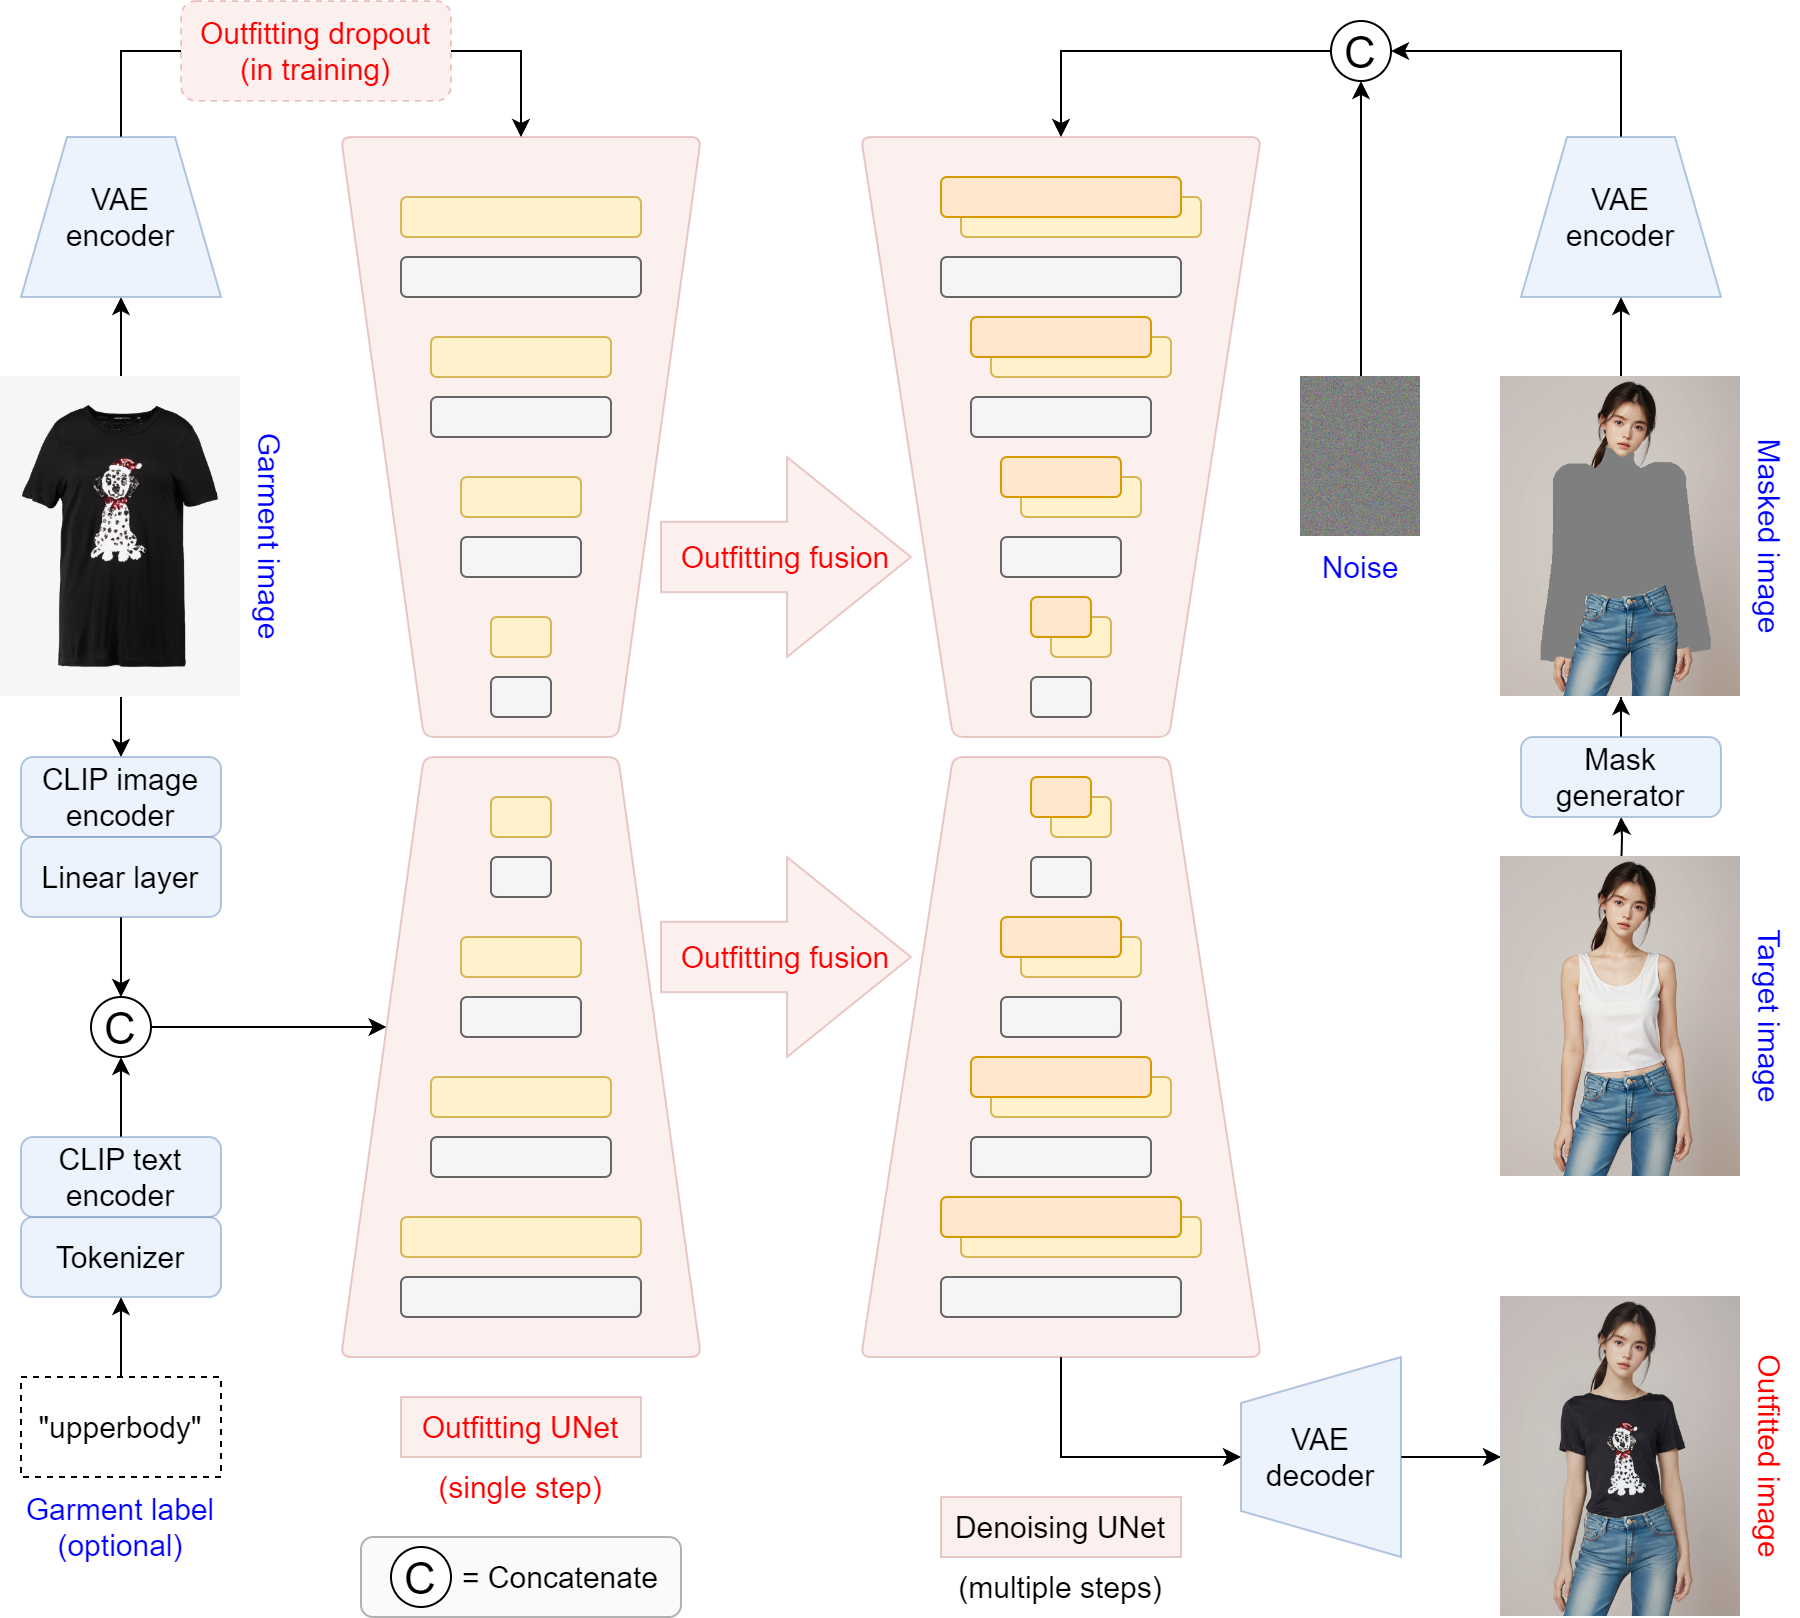
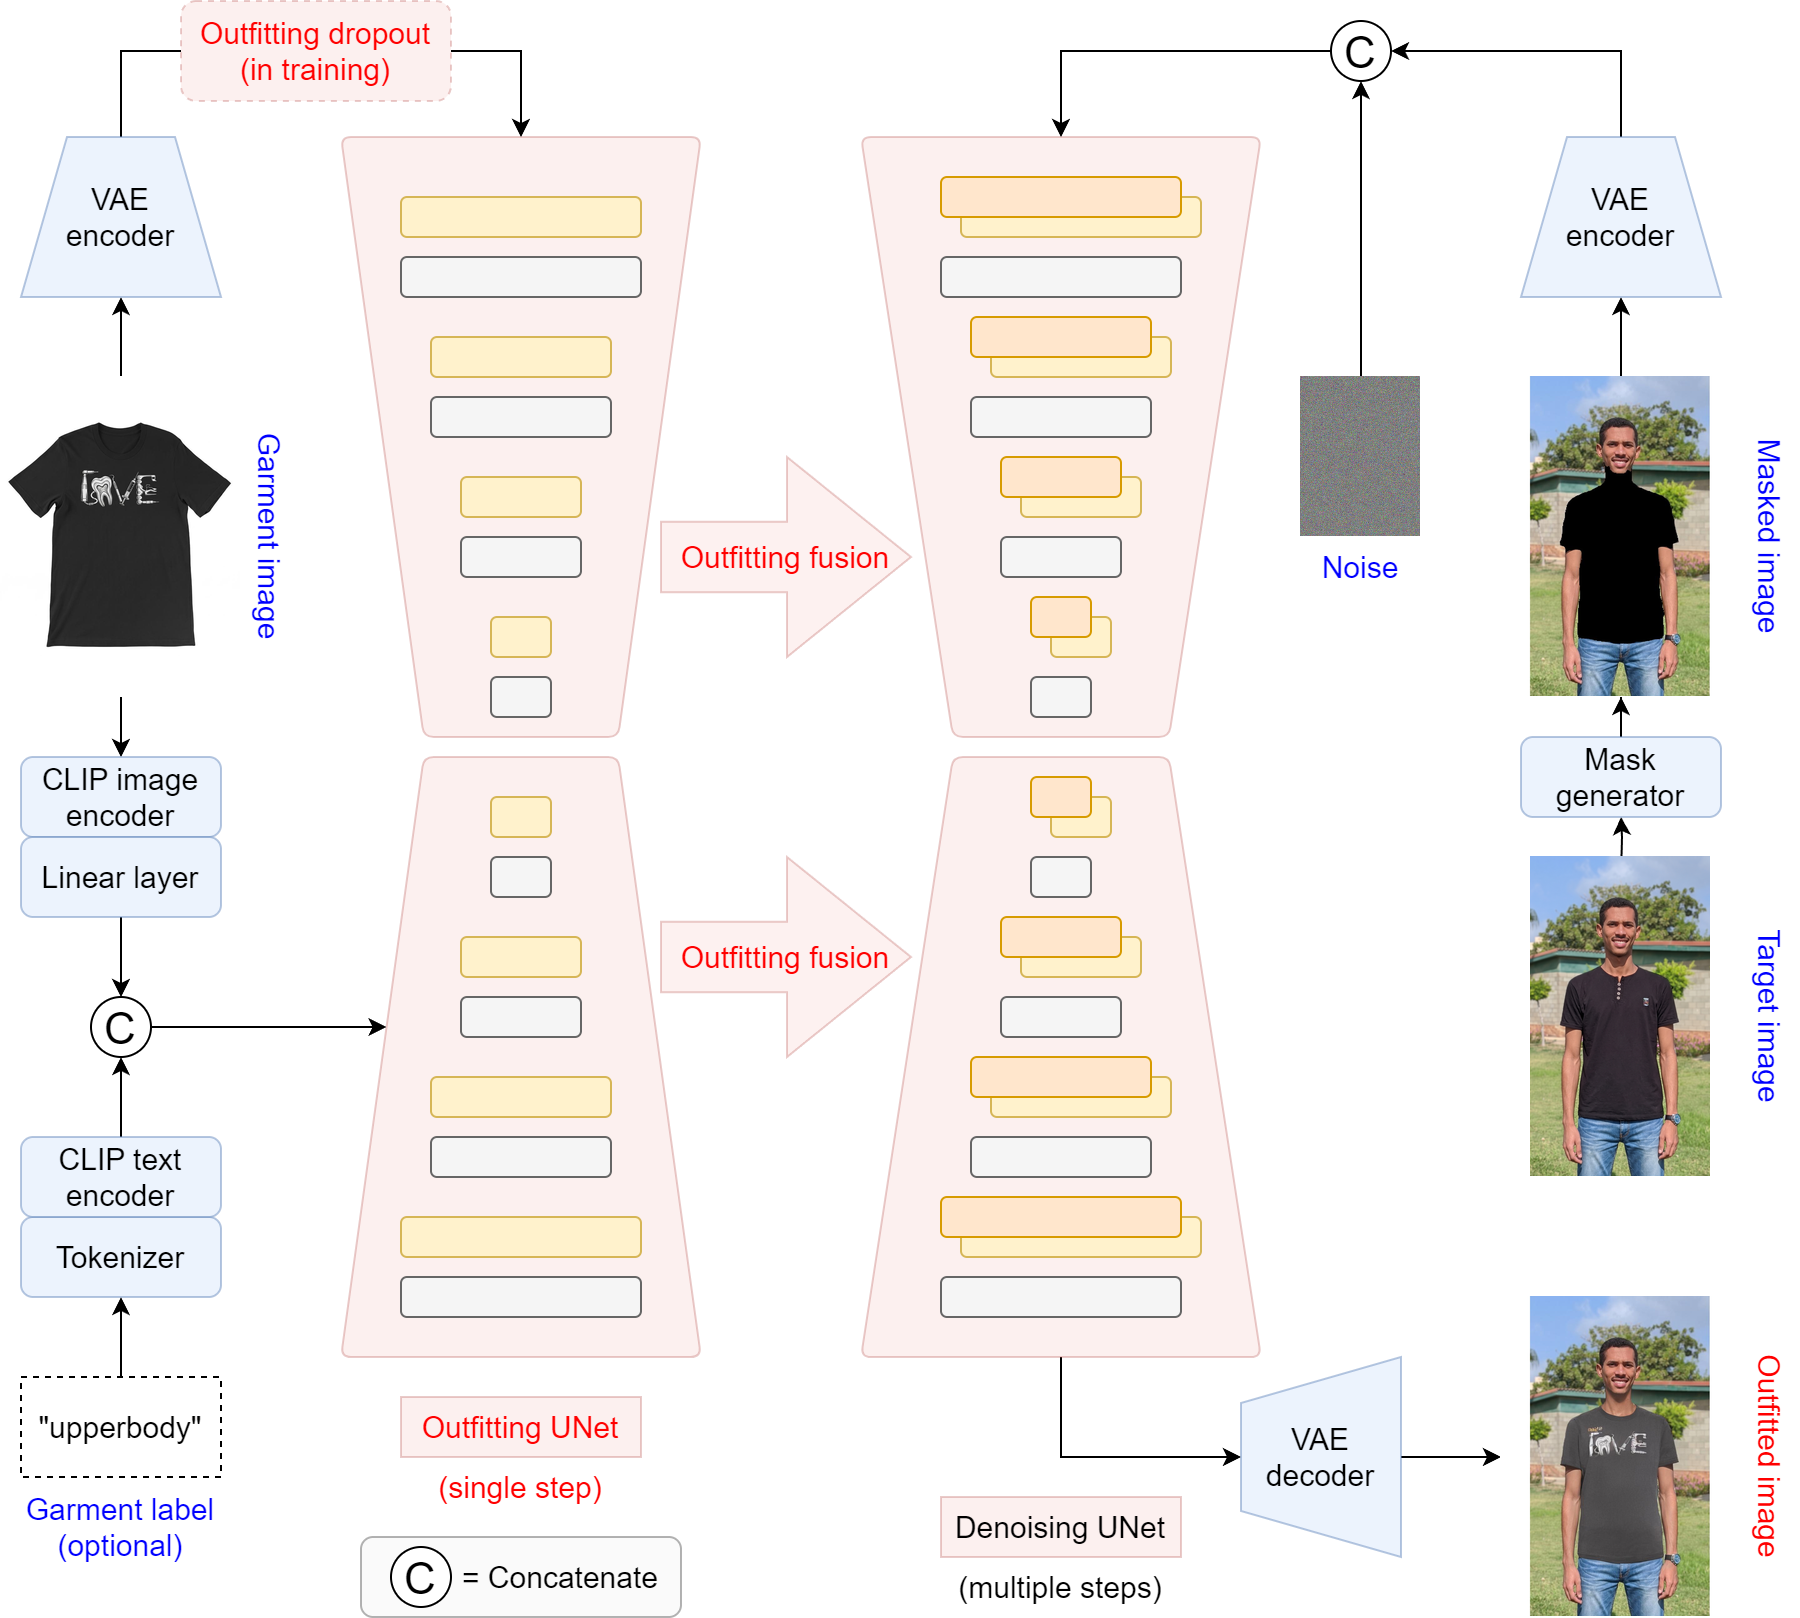
edit the readme

diff --git a/generate_workflow.py b/generate_workflow.py
@@ -1,0 +1,53 @@
+from PIL import Image
+import cv2
+import numpy as np
+import os
+
+# Paths
+base_dir = r'c:\Users\pc\PycharmProjects\WearCast_AI'
+workflow_path = os.path.join(base_dir, 'images', 'workflow.png')
+debug_folder = os.path.join(base_dir, 'debug_e5d7ed10-c6c5-4dd7-8f64-218a55ed642e')
+
+comp_path = os.path.join(debug_folder, 'debug_phase4_comparison.jpg')
+masked_path = os.path.join(debug_folder, 'debug_phase3_masked_person.jpg')
+output_path = os.path.join(debug_folder, 'debug_final_output.jpg')
+
+# Load original workflow image
+workflow_img = Image.open(workflow_path).convert('RGB')
+
+# Load and extract new images
+comp_img = Image.open(comp_path)
+W, H = comp_img.size
+w = W // 3
+
+garment = comp_img.crop((0, 0, w, H))
+target = Image.open(os.path.join(base_dir, 'Abdo.png'))
+
+masked = Image.open(masked_path)
+output = Image.open(output_path)
+
+# Resize all to 240x320
+from PIL import ImageOps
+new_size = (240, 320)
+garment = garment.resize(new_size, Image.Resampling.LANCZOS)
+masked = masked.resize(new_size, Image.Resampling.LANCZOS)
+output = output.resize(new_size, Image.Resampling.LANCZOS)
+
+# Preserve aspect ratio for target image so it's not distorted
+target_fitted = ImageOps.contain(target, new_size, Image.Resampling.LANCZOS)
+target_block = Image.new('RGB', new_size, (255, 255, 255))
+offset_x = (new_size[0] - target_fitted.width) // 2
+offset_y = (new_size[1] - target_fitted.height) // 2
+target_block.paste(target_fitted, (offset_x, offset_y))
+target = target_block
+
+# Paste into workflow image
+workflow_img.paste(garment, (0, 376))
+workflow_img.paste(masked, (1500, 376))
+workflow_img.paste(target, (1500, 856))
+workflow_img.paste(output, (1500, 1296))
+
+# Save the result
+output_file = os.path.join(base_dir, 'generated_workflow.png')
+workflow_img.save(output_file)
+print('New workflow image created successfully at', output_file)

diff --git a/generate_grid.py b/generate_grid.py
@@ -1,0 +1,59 @@
+from PIL import Image, ImageOps
+import os
+
+folders = [
+    'debug_e5d7ed10-c6c5-4dd7-8f64-218a55ed642e',
+    'debug_c626c9bb-c094-4627-a356-65b021cc5712',
+    'debug_71f21125-0072-483d-bb49-0bb7153ba24f',
+]
+
+target_images = [
+    'Abdo.png',
+    'test.jpg',
+    'user.jpg'
+]
+
+blocks = []
+
+for i, folder in enumerate(folders):
+    comp_path = os.path.join(folder, 'debug_phase4_comparison.jpg')
+    if not os.path.exists(comp_path): continue
+    comp_img = Image.open(comp_path)
+    W, H = comp_img.size
+    w = W // 3
+    
+    garment = comp_img.crop((0, 0, w, H))
+    output = comp_img.crop((2*w, 0, 3*w, H))
+    
+    person = Image.open(target_images[i])
+    
+    garment = garment.resize((240, 320), Image.Resampling.LANCZOS)
+    output = output.resize((480, 640), Image.Resampling.LANCZOS)
+    
+    # Preserve aspect ratio for person image
+    person_fitted = ImageOps.contain(person, (240, 320), Image.Resampling.LANCZOS)
+    person_block = Image.new('RGB', (240, 320), (255, 255, 255))
+    offset_x = (240 - person_fitted.width) // 2
+    offset_y = (320 - person_fitted.height) // 2
+    person_block.paste(person_fitted, (offset_x, offset_y))
+    person = person_block
+    
+    # Create block of 720x640 (photos only)
+    block = Image.new('RGB', (720, 640), (255, 255, 255))
+    
+    block.paste(garment, (0, 0))
+    block.paste(person, (0, 320))
+    block.paste(output, (240, 0))
+    
+    blocks.append(block)
+
+# Create the final canvas exactly fitting the blocks
+final_img = Image.new('RGB', (720 * len(blocks), 640), (255, 255, 255))
+
+for i, b in enumerate(blocks):
+    x = i * 720
+    y = 0
+    final_img.paste(b, (x, y))
+
+final_img.save('generated_demo.png')
+print(f'generated_demo.png created successfully with size {720 * len(blocks)}x640')

diff --git a/README.md b/README.md
@@ -4,16 +4,15 @@ This repository is the official implementation of WearCast
 🤗 [Try out WearCast](https://huggingface.co/spaces/levihsu/WearCast)
 
 
-(Thanks to [ZeroGPU](https://huggingface.co/zero-gpu-explorers) for providing A100 GPUs)
 
-<!-- Or [try our own demo](https://wearcast.ibot.cn/) on RTX 4090 GPUs -->
+
 
 > **WearCast: High-Fidelity Men's Half-Body Virtual Try-On Based on Latent Diffusion**<br>
 > A highly optimized pipeline tailored specifically for Men's half-body clothing outfitting.
 
 Our model checkpoints trained on [VITON-HD](https://github.com/shadow2496/VITON-HD) (half-body) have been released
 
-* 🤗 [Hugging Face link](https://huggingface.co/levihsu/WearCast) for ***checkpoints*** (wearcast, humanparsing, and openpose)
+* 🤗 [Hugging Face link](https://huggingface.co/abdokamal/WearCast) for ***checkpoints*** (wearcast, humanparsing, and openpose)
 * 📢📢 We support ONNX for [humanparsing](https://github.com/GoGoDuck912/Self-Correction-Human-Parsing) now. Most environmental issues should have been addressed : )
 * Please also download [clip-vit-large-patch14](https://huggingface.co/openai/clip-vit-large-patch14) into ***checkpoints*** folder
 * We've only tested our code and models on Linux (Ubuntu 22.04)
@@ -25,7 +24,7 @@ Our model checkpoints trained on [VITON-HD](https://github.com/shadow2496/VITON-
 1. Clone the repository
 
 ```sh
-git clone https://github.com/levihsu/WearCast
+git clone https://github.com/Abdokamal1532/WearCast_AI
 ```
 
 2. Create a conda environment and install the required packages
@@ -66,7 +65,7 @@ python run_wearcast.py --model_path <model-image-path> --cloth_path <cloth-image
 
 ## Star History
 
-[![Star History Chart](https://api.star-history.com/svg?repos=levihsu/OOTDiffusion&type=Date)](https://star-history.com/#levihsu/OOTDiffusion&Date)
+[![Star History Chart](https://api.star-history.com/chart?repos=Abdokamal1532/WearCast_AI&type=timeline&logscale&legend=top-left)](https://www.star-history.com/?repos=Abdokamal1532%2FWearCast_AI&type=timeline&logscale=&legend=top-left)
 
 ## TODO List
 - [x] Paper
